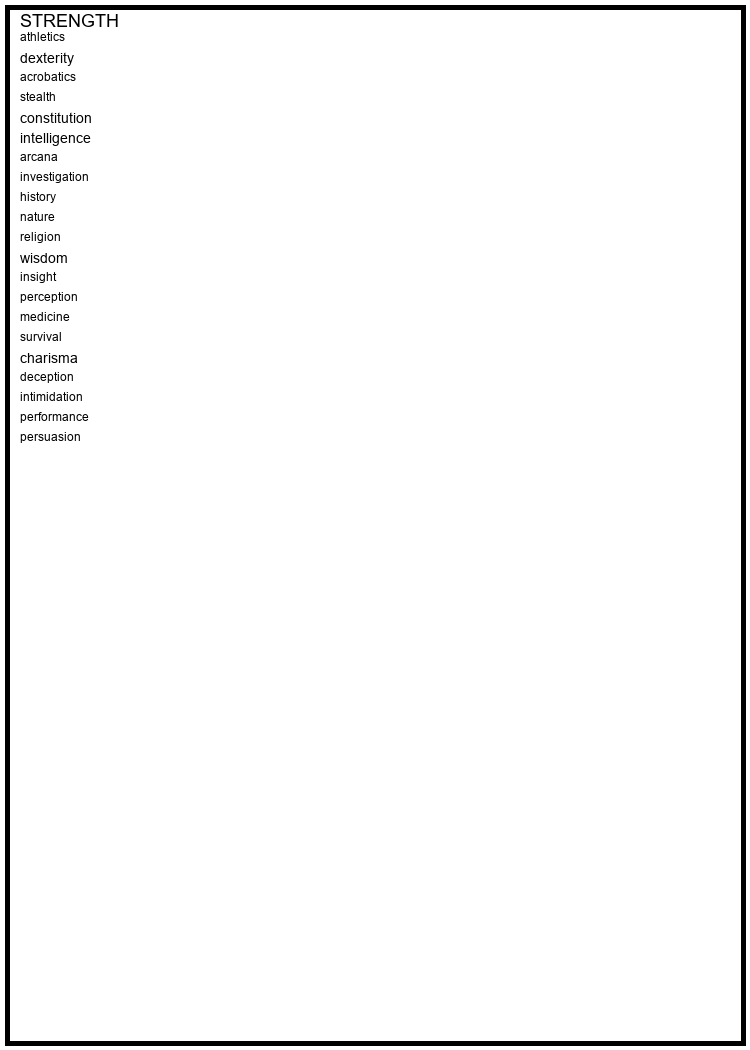
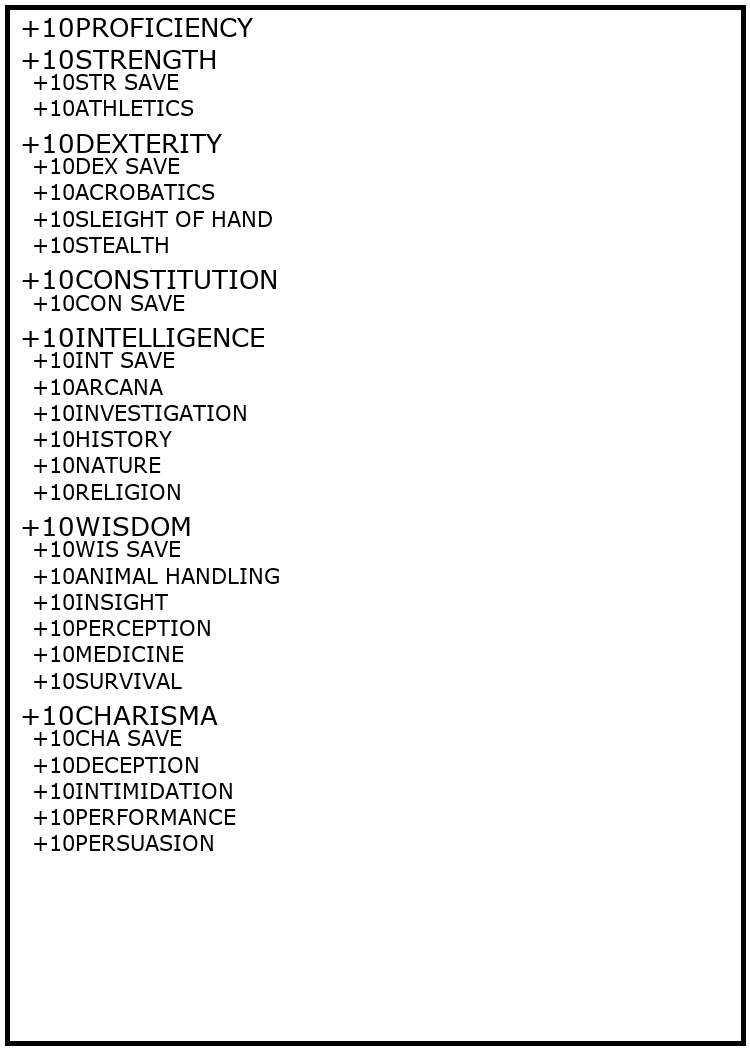
added the dummy modifier and properly formatted, everything fits!

Changed region(s): [[0.0307, 0.0, 0.368, 0.8229], [0.3373, 0.5181, 0.368, 0.579]]

diff --git a/src/test_e_layout_json.py b/src/test_e_layout_json.py
@@ -100,8 +100,6 @@ CN_DEFAULT_BACKGROUND_COLOR: tuple[int, int, int] = (255, 255, 255)  # white
 CN_DEFAULT_BORDER_COLOR: tuple[int, int, int] = (0, 0, 0)            # black
 CN_BORDER_WIDTH: int = 5
 
-
-
 def draw_layout_to_image(
     i_layout: List[Dict[str, Any]],
     i_card_width: int,
@@ -170,31 +168,41 @@ def draw_layout_to_image(
     # Render each layout item; skip anything that isn’t a dict
     for st_item in ast_abilities:
         
-
-        s_text: str = st_item.get("s_name", "")
-        n_w_pos: int = st_item.get("w_pos", 0)
-        n_h_pos: int = st_item.get("h_pos", 0)
-        n_font_size: int = st_item.get("h_font", 12)
+        #PPT part per thousand of the whole image
+        #This way it's scale independent
+        s_text : str = st_item.get("s_name", "")
+        w_pos_ppt : int = st_item.get("w_pos_ppt", 0)
+        h_pos_ppt : int = st_item.get("h_pos_ppt", 0)
+        h_font_ppt : int = st_item.get("h_font_ppt", 0)
+        #PX
+        w_pos_px = i_card_width * w_pos_ppt / 1000
+        h_pos_px = i_card_height * h_pos_ppt / 1000
+        h_font_px = i_card_height * h_font_ppt / 1000
 
         try:
             cl_item_font: font.FreeTypeFont = font.truetype(
-                "arial.ttf",
-                n_font_size,
+                "verdana.ttf",
+                h_font_px,
             )
         except OSError:
             cl_item_font = cl_default_font
+            print("ERR: failed to load font")
 
         if (cursor_h <= 0):
-            cursor_w = n_w_pos
-            cursor_h = n_h_pos
+            cursor_w = w_pos_px
+            cursor_h = h_pos_px
         else:
-            cursor_w += n_w_pos
-            cursor_h += n_h_pos
+            cursor_w += w_pos_px
+            cursor_h += h_pos_px
 
+        #add the header for the attribute or ability 
         cl_draw.text((cursor_w, cursor_h), s_text, fill=(0, 0, 0), font=cl_item_font)
+        #fetch the numerical value of attribute or ability
+        cl_draw.text((cursor_w, cursor_h), "+10", fill=(0, 0, 0), font=cl_item_font, anchor="ra")
+
+        
 
     return cl_image
-
 
 # --------------------------------------------------------------------------- #
 # Example class that uses the above helpers – demonstrates a minimal card
